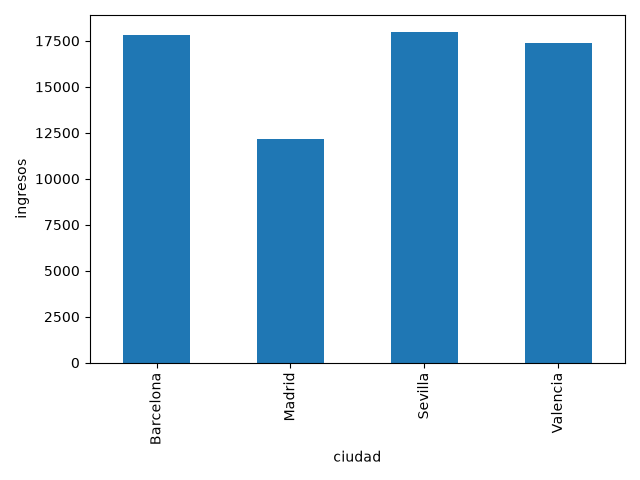
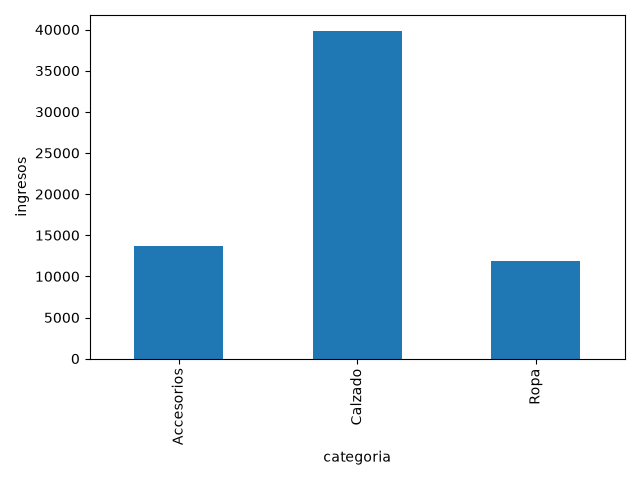
primera evaluación del agente, antes de la segunda

diff --git a/herramientas.py b/herramientas.py
@@ -17,19 +17,97 @@ def describir_datos() -> dict:
     }
 
 
-def calcular(columna: str, operacion: str, agrupar_por: str | None = None) -> dict:
-    """Calcula suma, media, maximo, minimo o recuento de una columna, opcionalmente agrupando por otra."""
-    if columna not in df.columns:
-        return {"error": f"La columna '{columna}' no existe. Columnas: {list(df.columns)}"}
+def _error_columnas(*columnas):
+    for c in columnas:
+        if c is not None and c not in df.columns:
+            return f"La columna '{c}' no existe. Columnas: {list(df.columns)}"
+    return None
+
+
+def _filtrar(filtro_columna, filtro_valor):
+    """Devuelve (datos, error). Sin filtro, devuelve todos los datos."""
+    if not filtro_columna:
+        return df, None
+    error = _error_columnas(filtro_columna)
+    if error:
+        return None, error
+    if filtro_valor is None:
+        return None, "Si indicas filtro_columna, indica también filtro_valor"
+    datos = df[df[filtro_columna].astype(str).str.lower() == str(filtro_valor).lower()]
+    if datos.empty:
+        validos = sorted(df[filtro_columna].astype(str).unique())[:20]
+        return None, f"No hay filas con {filtro_columna} = {filtro_valor}. Valores posibles: {validos}"
+    return datos, None
+
+
+def calcular(columna: str, operacion: str, agrupar_por: str | None = None,
+             filtro_columna: str | None = None, filtro_valor: str | None = None) -> dict:
+    """Calcula suma, media, maximo, minimo o recuento de una columna. Opcional: agrupar por otra
+    columna y/o filtrar las filas donde filtro_columna sea igual a filtro_valor
+    (por ejemplo filtro_columna='ciudad', filtro_valor='Madrid')."""
     if operacion not in OPERACIONES:
         return {"error": f"Operación no válida. Usa una de: {list(OPERACIONES)}"}
-    if agrupar_por and agrupar_por not in df.columns:
-        return {"error": f"La columna '{agrupar_por}' no existe. Columnas: {list(df.columns)}"}
+    error = _error_columnas(columna, agrupar_por)
+    if error:
+        return {"error": error}
+    datos, error = _filtrar(filtro_columna, filtro_valor)
+    if error:
+        return {"error": error}
     try:
         if agrupar_por:
-            res = df.groupby(agrupar_por)[columna].agg(OPERACIONES[operacion])
+            res = datos.groupby(agrupar_por)[columna].agg(OPERACIONES[operacion])
             return {"resultado": {str(k): round(float(v), 2) for k, v in res.items()}}
-        return {"resultado": round(float(df[columna].agg(OPERACIONES[operacion])), 2)}
+        return {"resultado": round(float(datos[columna].agg(OPERACIONES[operacion])), 2)}
+    except Exception as e:
+        return {"error": str(e)}
+
+
+def calcular_por_mes(columna: str, operacion: str,
+                     filtro_columna: str | None = None, filtro_valor: str | None = None) -> dict:
+    """Calcula suma, media, maximo, minimo o recuento de una columna agrupado por mes (formato AAAA-MM).
+    Admite el mismo filtro opcional que calcular."""
+    if operacion not in OPERACIONES:
+        return {"error": f"Operación no válida. Usa una de: {list(OPERACIONES)}"}
+    error = _error_columnas(columna)
+    if error:
+        return {"error": error}
+    datos, error = _filtrar(filtro_columna, filtro_valor)
+    if error:
+        return {"error": error}
+    try:
+        res = datos.groupby(datos["fecha"].dt.to_period("M"))[columna].agg(OPERACIONES[operacion])
+        return {"resultado": {str(k): round(float(v), 2) for k, v in res.items()}}
+    except Exception as e:
+        return {"error": str(e)}
+
+
+def ranking(columna: str, operacion: str, agrupar_por: str, n: int = 3, orden: str = "mayor") -> dict:
+    """Devuelve los n grupos de agrupar_por con mayor (orden='mayor') o menor (orden='menor')
+    valor de la operación (suma, media, maximo, minimo o recuento) sobre la columna."""
+    if operacion not in OPERACIONES:
+        return {"error": f"Operación no válida. Usa una de: {list(OPERACIONES)}"}
+    if orden not in ("mayor", "menor"):
+        return {"error": "orden debe ser 'mayor' o 'menor'"}
+    error = _error_columnas(columna, agrupar_por)
+    if error:
+        return {"error": error}
+    try:
+        res = df.groupby(agrupar_por)[columna].agg(OPERACIONES[operacion])
+        res = res.sort_values(ascending=(orden == "menor")).head(int(n))
+        return {"resultado": {str(k): round(float(v), 2) for k, v in res.items()}}
+    except Exception as e:
+        return {"error": str(e)}
+
+
+def porcentaje_del_total(columna: str, agrupar_por: str) -> dict:
+    """Calcula qué porcentaje del total (suma) de una columna representa cada grupo de agrupar_por."""
+    error = _error_columnas(columna, agrupar_por)
+    if error:
+        return {"error": error}
+    try:
+        res = df.groupby(agrupar_por)[columna].sum()
+        pct = (res / res.sum() * 100).round(1)
+        return {"porcentajes": {str(k): float(v) for k, v in pct.items()}}
     except Exception as e:
         return {"error": str(e)}
 

diff --git a/agente.py b/agente.py
@@ -4,7 +4,8 @@ from dotenv import load_dotenv
 from google import genai
 from google.genai import errors, types
 
-from herramientas import describir_datos, calcular, grafico
+from herramientas import (describir_datos, calcular, calcular_por_mes,
+                          ranking, porcentaje_del_total, grafico)
 
 load_dotenv()
 client = genai.Client(api_key=os.environ["GEMINI_API_KEY"])
@@ -12,42 +13,54 @@ client = genai.Client(api_key=os.environ["GEMINI_API_KEY"])
 MODEL = "gemini-flash-lite-latest"
 MAX_PASOS = 6  # límite para que el agente no se quede en bucle
 
-HERRAMIENTAS = {f.__name__: f for f in (describir_datos, calcular, grafico)}
+HERRAMIENTAS = {f.__name__: f for f in (describir_datos, calcular, calcular_por_mes,
+                                        ranking, porcentaje_del_total, grafico)}
 
 INSTRUCCIONES = (
     "Eres un analista de datos. Responde siempre en español. "
     "Para cualquier cifra debes usar las herramientas: no inventes números. "
     "Empieza por describir_datos si no conoces las columnas. "
-    "Si dibujas un gráfico, indica el nombre del archivo generado."
+    "Si dibujas un gráfico, indica el nombre del archivo generado." \
+    "Solo dibuja gráficos si te lo piden explícitamente."
 )
 
-config = types.GenerateContentConfig(
-    system_instruction=INSTRUCCIONES,
-    tools=list(HERRAMIENTAS.values()),
-    # desactivamos la automática para escribir nosotros el bucle
-    automatic_function_calling=types.AutomaticFunctionCallingConfig(disable=True),
-)
+ULTIMA_LLAMADA = 0.0
+INTERVALO_MIN = 4.5  # el plan gratuito permite 15 peticiones por minuto
 
 
-def llamar_modelo(contents):
-    """Llama a Gemini y reintenta si el servidor está saturado (429, 500, 503)."""
+
+def crear_config(instrucciones: str) -> types.GenerateContentConfig:
+    return types.GenerateContentConfig(
+        system_instruction=instrucciones,
+        tools=list(HERRAMIENTAS.values()),
+        automatic_function_calling=types.AutomaticFunctionCallingConfig(disable=True),
+    )
+
+
+def llamar_modelo(contents, config):
+    """Llama a Gemini respetando el límite por minuto y reintentando si falla (429, 500, 503)."""
+    global ULTIMA_LLAMADA
     for intento in range(4):
+        pausa = INTERVALO_MIN - (time.time() - ULTIMA_LLAMADA)
+        if pausa > 0:
+            time.sleep(pausa)
+        ULTIMA_LLAMADA = time.time()
         try:
             return client.models.generate_content(model=MODEL, contents=contents, config=config)
         except errors.APIError as e:
             if e.code in (429, 500, 503) and intento < 3:
-                espera = 2 ** (intento + 1)
+                espera = 30 if e.code == 429 else 2 ** (intento + 1)
                 print(f"  [Gemini ocupado ({e.code}), reintento en {espera}s]")
                 time.sleep(espera)
             else:
                 raise
 
 
-def preguntar(pregunta: str) -> str:
+def preguntar(pregunta: str, instrucciones: str = INSTRUCCIONES) -> str:
     contents = [types.Content(role="user", parts=[types.Part(text=pregunta)])]
-
+    config = crear_config(instrucciones)
     for paso in range(MAX_PASOS):
-        resp = llamar_modelo(contents)
+        resp = llamar_modelo(contents, config)
         llamadas = resp.function_calls
 
         if not llamadas:  # el modelo ya tiene respuesta final
@@ -72,8 +85,14 @@ def preguntar(pregunta: str) -> str:
 
 if __name__ == "__main__":
     print("Agente de datos (escribe 'salir' para terminar)")
-    while True:
-        pregunta = input("\nPregunta: ").strip()
-        if pregunta.lower() in ("salir", "exit"):
-            break
-        print(preguntar(pregunta))
+    try:
+        while True:
+            pregunta = input("\nPregunta: ").strip()
+            if not pregunta:
+                continue
+            if pregunta.lower() in ("salir", "exit", "quit"):
+                break
+            print(preguntar(pregunta))
+    except (KeyboardInterrupt, EOFError):
+        pass
+    print("\nHasta luego.")

diff --git a/evaluacion.py b/evaluacion.py
@@ -1,0 +1,58 @@
+import re
+import time
+import pandas as pd
+from agente import preguntar, INSTRUCCIONES
+
+df = pd.read_csv("ventas.csv", parse_dates=["fecha"])
+
+
+def num(x):
+    return str(int(round(x)))
+
+
+PREGUNTAS = [
+    ("¿Cuántas filas tiene el dataset?", [num(len(df))]),
+    ("¿Cuáles son los ingresos totales?", [num(df.ingresos.sum())]),
+    ("¿Qué ciudad tiene más ingresos?", [df.groupby("ciudad").ingresos.sum().idxmax()]),
+    ("¿Qué ciudad tiene menos ingresos?", [df.groupby("ciudad").ingresos.sum().idxmin()]),
+    ("¿Cuántas unidades se vendieron en total?", [num(df.unidades.sum())]),
+    ("¿Qué producto vendió más unidades en total?", [df.groupby("producto").unidades.sum().idxmax()]),
+    ("¿Qué categoría tiene mayores ingresos?", [df.groupby("categoria").ingresos.sum().idxmax()]),
+    ("¿Cuáles son los ingresos totales de Barcelona?", [num(df[df.ciudad == "Barcelona"].ingresos.sum())]),
+    ("¿Cuál es el mayor número de unidades en una sola venta?", [num(df.unidades.max())]),
+    ("¿Cuántas ventas hay de la categoría Calzado?", [num((df.categoria == "Calzado").sum())]),
+]
+
+INSTRUCCIONES_B = "Responde en español."  # versión mínima, para comparar
+
+
+def normalizar(texto: str) -> str:
+    texto = texto.lower()
+    return re.sub(r"(?<=\d)[.,](?=\d{3}\b)", "", texto)  # quita separadores de miles
+
+
+def evaluar(instrucciones: str, etiqueta: str) -> list[dict]:
+    filas = []
+    for pregunta, esperados in PREGUNTAS:
+        try:
+            respuesta = preguntar(pregunta, instrucciones)
+        except Exception as e:
+            respuesta = f"ERROR: {e}"
+        if respuesta.startswith("ERROR"):
+            ok = None  # no evaluable
+        else:
+            norm = normalizar(respuesta)
+            ok = all(str(e).lower() in norm for e in esperados)
+        filas.append({"version": etiqueta, "pregunta": pregunta, "esperado": esperados,
+                      "ok": ok, "respuesta": respuesta})
+    validas = [f for f in filas if f["ok"] is not None]
+    aciertos = sum(f["ok"] for f in validas)
+    print(f"\n>>> {etiqueta}: {aciertos}/{len(validas)} válidas "
+          f"({len(filas) - len(validas)} con error)\n")
+    return filas
+
+
+if __name__ == "__main__":
+    resultados = evaluar(INSTRUCCIONES, "A (completas)") + evaluar(INSTRUCCIONES_B, "B (mínimas)")
+    pd.DataFrame(resultados).to_csv("resultados.csv", index=False)
+    print("Guardado en resultados.csv")
